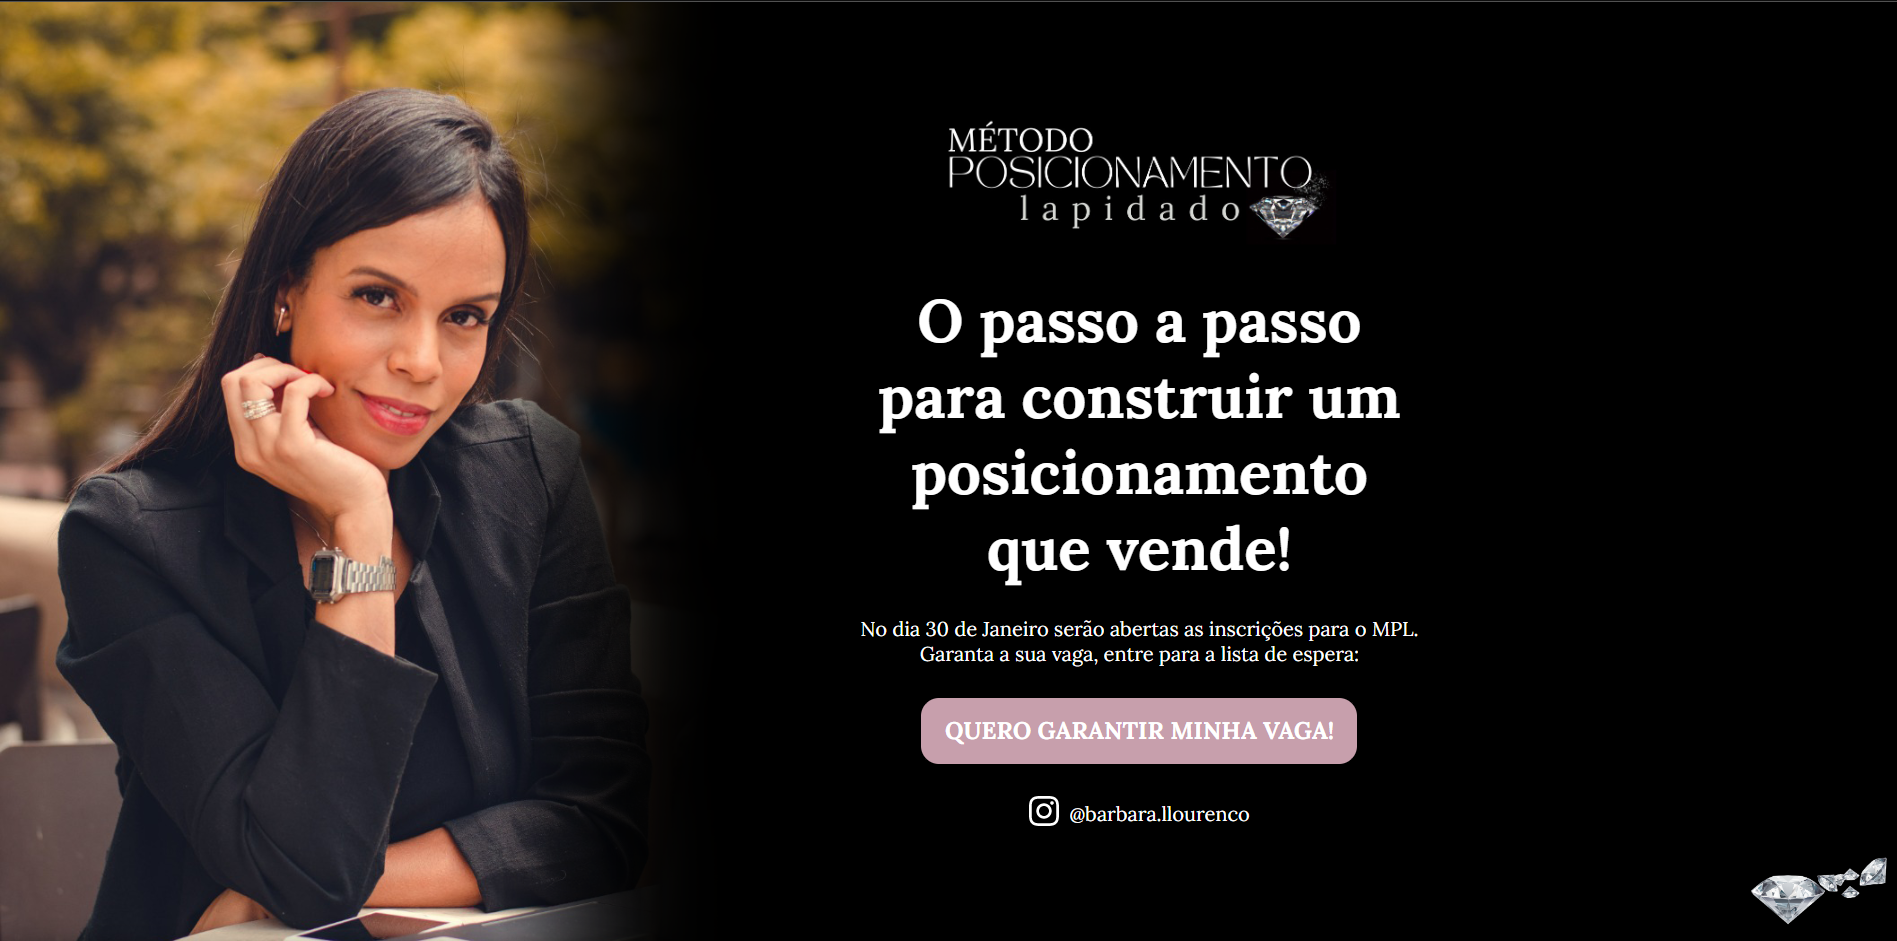
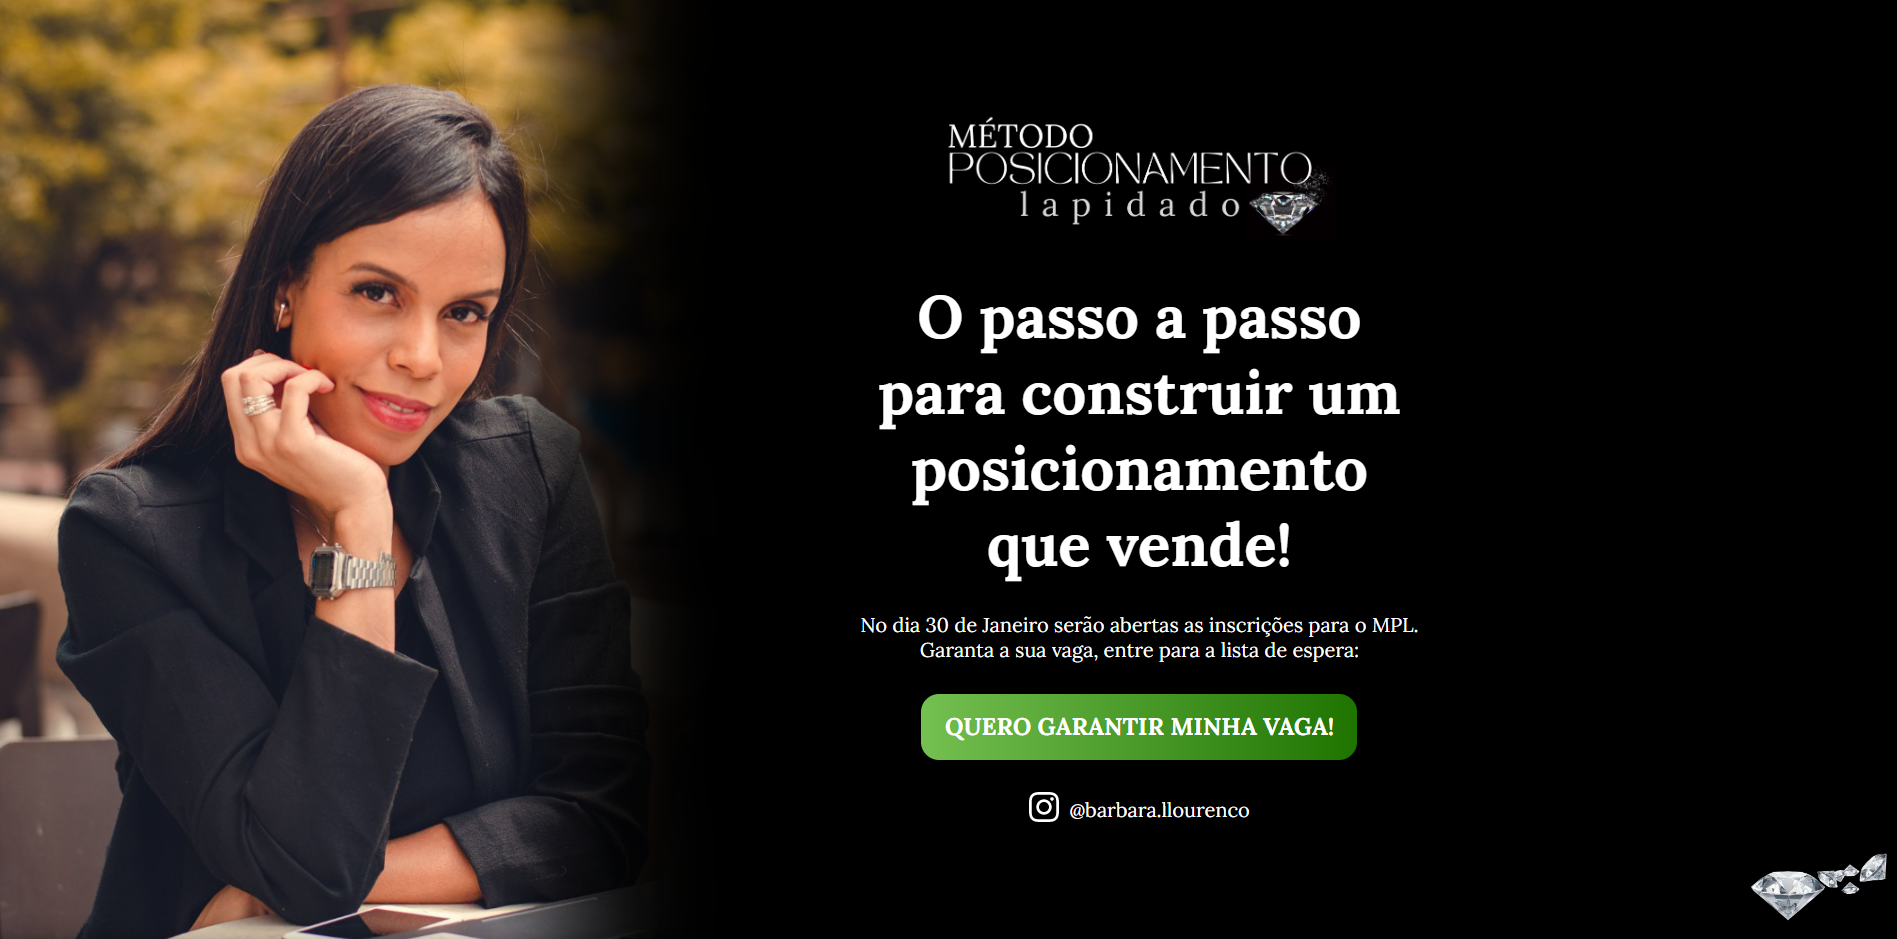
fix: button

diff --git a/style.css b/style.css
@@ -78,16 +78,16 @@ main {
     font-size: 1.2rem;
     font-weight: 700;
     text-transform: uppercase;
-    background-color: #c79fac;
+    background: linear-gradient(90deg,#74c051,#1f7400);
     border-radius: 1rem;
 }
 
 .infos > button:hover{
-    background-color: #b07f8e;
+    background: #31b302;
 }
 
 .infos > button:active{
-    background-color: #c8748d;
+    background-color: #44d102;
 }
 
 .infos svg{
